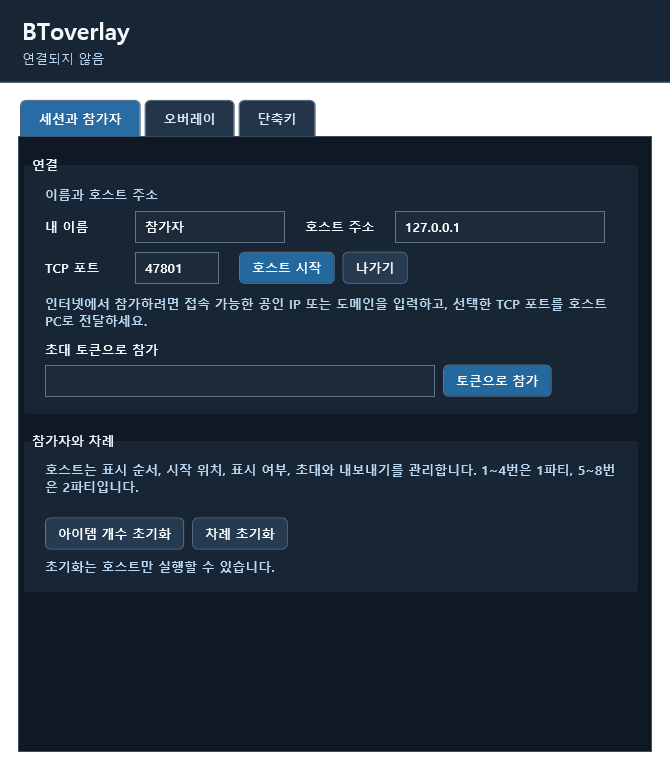
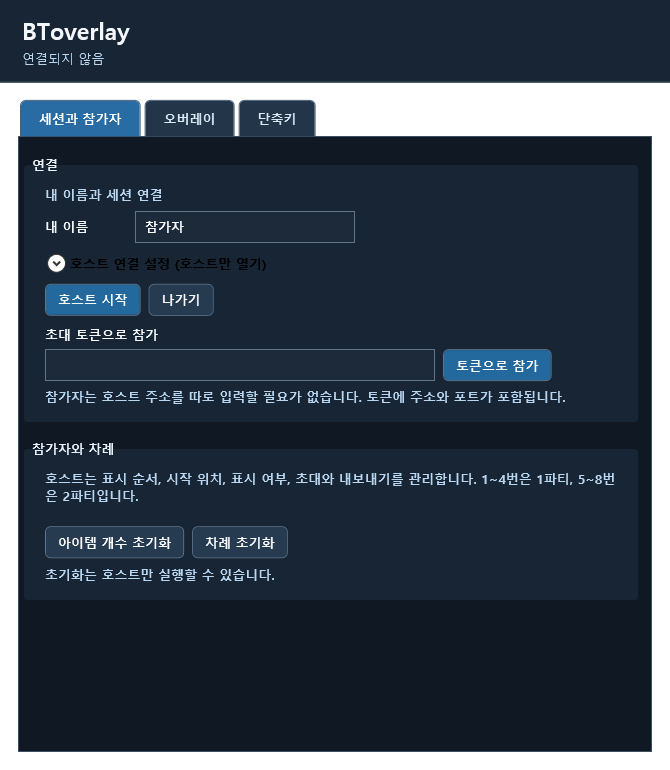
v0.3.0: 초대 토큰 연결 주소 및 문서 보안 안내

diff --git a/MainWindow.xaml b/MainWindow.xaml
@@ -139,26 +139,36 @@
           <StackPanel>
             <GroupBox Header="연결">
               <StackPanel>
-                <TextBlock Text="이름과 호스트 주소" Foreground="#B9D6F0" Margin="0,0,0,8"/>
+                <TextBlock Text="내 이름과 세션 연결" Foreground="#B9D6F0" Margin="0,0,0,8"/>
                 <WrapPanel Margin="0,0,0,9">
                   <TextBlock Text="내 이름" Width="90" VerticalAlignment="Center"/>
-                  <TextBox x:Name="NameBox" Width="150" AutomationProperties.Name="내 이름" Margin="0,0,20,0"/>
-                  <TextBlock Text="호스트 주소" Width="90" VerticalAlignment="Center"/>
-                  <TextBox x:Name="AddressBox" Width="210" AutomationProperties.Name="호스트 주소"/>
+                  <TextBox x:Name="NameBox" Width="220" AutomationProperties.Name="내 이름"/>
                 </WrapPanel>
-                <WrapPanel Margin="0,0,0,9">
-                  <TextBlock Text="TCP 포트" Width="90" VerticalAlignment="Center"/>
-                  <TextBox x:Name="PortBox" Width="84" AutomationProperties.Name="TCP 포트" Margin="0,0,20,0"/>
+                <Expander x:Name="HostConfigExpander" Header="호스트 연결 설정 (호스트만 열기)" IsExpanded="False" Margin="0,0,0,9">
+                  <StackPanel Margin="8,8,8,4">
+                    <WrapPanel Margin="0,0,0,8">
+                      <TextBlock Text="초대 주소" Width="90" VerticalAlignment="Center"/>
+                      <TextBox x:Name="AddressBox" Width="210" AutomationProperties.Name="초대 주소" ToolTip="게스트가 연결할 공인 IP 또는 도메인"/>
+                    </WrapPanel>
+                    <WrapPanel>
+                      <TextBlock Text="TCP 포트" Width="90" VerticalAlignment="Center"/>
+                      <TextBox x:Name="PortBox" Width="84" AutomationProperties.Name="TCP 포트"/>
+                    </WrapPanel>
+                    <TextBlock Text="인터넷 접속용 공인 IP 또는 도메인을 입력하세요. 선택한 포트를 공유기에서 이 PC로 전달하고 방화벽에서 허용해야 합니다. 주소는 초대 토큰에 포함됩니다."
+                               Foreground="#B9D6F0" TextWrapping="Wrap" Margin="0,8,0,2"/>
+                  </StackPanel>
+                </Expander>
+                <WrapPanel Margin="0,0,0,10">
                   <Button Content="호스트 시작" Click="HostClick" Background="#24699E" Margin="0,0,8,0"/>
                   <Button Content="나가기" Click="LeaveClick"/>
                 </WrapPanel>
-                <TextBlock Text="인터넷에서 참가하려면 접속 가능한 공인 IP 또는 도메인을 입력하고, 선택한 TCP 포트를 호스트 PC로 전달하세요."
-                           Foreground="#B9D6F0" TextWrapping="Wrap" Margin="0,2,0,12"/>
                 <TextBlock Text="초대 토큰으로 참가" FontWeight="SemiBold" Margin="0,0,0,6"/>
                 <WrapPanel>
                   <TextBox x:Name="TokenBox" Width="390" AutomationProperties.Name="초대 토큰" ToolTip="초대 토큰을 붙여 넣으세요" Margin="0,0,8,0"/>
                   <Button Content="토큰으로 참가" Click="JoinClick" Background="#24699E"/>
                 </WrapPanel>
+                <TextBlock Text="참가자는 호스트 주소를 따로 입력할 필요가 없습니다. 토큰에 주소와 포트가 포함됩니다."
+                           Foreground="#B9D6F0" TextWrapping="Wrap" Margin="0,7,0,0"/>
               </StackPanel>
             </GroupBox>
             <GroupBox Header="참가자와 차례">

diff --git a/MainWindow.xaml.cs b/MainWindow.xaml.cs
@@ -43,10 +43,15 @@ public partial class MainWindow : Window
         Closing += (_, _) => { _settings.Save(); _hotkeys?.Dispose(); _ = _session?.DisposeAsync(); _overlay?.Close(); };
     }
     void Status(string text) { StatusText.Text = text; }
-    void SaveBasic()
+    void SaveName()
     {
         _settings.Name = NameBox.Text.Trim();
         if (_settings.Name.Length is < 1 or > 24) throw new InvalidOperationException("이름은 1~24자로 입력하세요.");
+        _settings.Save();
+    }
+    void SaveBasic()
+    {
+        SaveName();
         _settings.HostAddress = AddressBox.Text.Trim();
         if (_settings.HostAddress.Length is < 1 or > 255) throw new InvalidOperationException("호스트 IP 주소 또는 도메인을 입력하세요.");
         if (!int.TryParse(PortBox.Text, out var port) || port is < 1 or > 65535) throw new InvalidOperationException("포트는 1~65535 사이여야 합니다.");
@@ -63,6 +68,7 @@ public partial class MainWindow : Window
             _session.ApproveJoin = (slot, name) => Task.FromResult(MessageBox.Show(this,
                 $"{name}님이 참가자 {slot + 1}번으로 참가하려고 합니다. 허용할까요?", "참가 요청", MessageBoxButton.YesNo, MessageBoxImage.Question) == MessageBoxResult.Yes);
             _session.Notice += Status; _session.Changed += RenderPlayers;
+            HostConfigExpander.IsExpanded = false;
             Status($"TCP {_settings.Port} 포트에서 호스트 중입니다. 참가자별 초대 토큰을 만드세요.");
             RenderPlayers(); _board.Refresh();
         }
@@ -72,7 +78,7 @@ public partial class MainWindow : Window
     {
         try
         {
-            SaveBasic();
+            SaveName();
             if (_session is not null) await _session.DisposeAsync();
             Status("연결 중입니다. 호스트의 승인을 기다리는 중...");
             _session = await Session.JoinAsync(_board, _settings, TokenBox.Text);

diff --git a/Session.cs b/Session.cs
@@ -83,7 +83,9 @@ public sealed class Session : IAsyncDisposable
         try
         {
             invite = JsonSerializer.Deserialize<Invite>(Encoding.UTF8.GetString(Convert.FromBase64String(token.Trim())))!;
-            if (invite is null || invite.Slot is < 1 or > 7 || invite.Port is < 1 or > 65535 || invite.Address.Length > 255) throw new FormatException();
+            if (invite is null || invite.Slot is < 1 or > 7 || invite.Port is < 1 or > 65535 ||
+                string.IsNullOrWhiteSpace(invite.Address) || invite.Address.Length > 255 ||
+                Uri.CheckHostName(invite.Address) == UriHostNameType.Unknown) throw new FormatException();
             secret = Convert.FromBase64String(invite.Secret);
             if (secret.Length != 32 || invite.CertificateHash.Length != 64 || !invite.CertificateHash.All(Uri.IsHexDigit)) throw new FormatException();
         }

diff --git a/Checks/Program.cs b/Checks/Program.cs
@@ -119,7 +119,7 @@ try
     var probe = new TcpListener(IPAddress.Loopback, 0);
     probe.Start(); var port = ((IPEndPoint)probe.LocalEndpoint).Port; probe.Stop();
     var hs = new UserSettings { Name = "Host", HostAddress = "127.0.0.1", Port = port, MaxItems = 3 };
-    var gs = new UserSettings { Name = "Guest", MaxItems = 5 };
+    var gs = new UserSettings { Name = "Guest", HostAddress = "", MaxItems = 5 };
     var hb = new Board(); var gb = new Board();
     host = await dispatcher.InvokeAsync(() => Session.HostAsync(hb, hs)).Task.Unwrap();
     host.ApproveJoin = (_, _) => Task.FromResult(true);

diff --git a/README.md b/README.md
@@ -2,6 +2,8 @@
 
 8인 그룹의 아이템 잔여 개수와 사용 차례를 함께 보는 Windows 오버레이입니다. 호스트 1명과 참가자 최대 7명이 직접 연결합니다. 세션과 설정은 각 사용자에게 별도로 관리됩니다.
 
+현재 버전: **v0.3.0**
+
 ## 화면 미리보기
 
 오버레이는 두 가지 표시 방식을 지원합니다. 스타일 1은 두 파티를 나란히 표시하고, 스타일 2는 현재 차례 플레이어를 크게 보여 주면서 전체 인원 상태를 한눈에 확인할 수 있습니다. 호스트가 정한 순서가 모든 참가자에게 동일하게 표시됩니다.
@@ -58,9 +60,9 @@ dotnet run --project Checks/BToverlay.Checks.csproj
 
 ## 세션 만들기
 
-1. 호스트가 참가자에게 보일 공인 IP 또는 도메인과 TCP 포트를 입력하고 **호스트 시작**을 누릅니다. 인터넷에서 사용하려면 공유기에서 해당 포트를 호스트 PC로 전달하고 방화벽에서 허용해야 합니다.
+1. 호스트는 **호스트 연결 설정**을 열어 게스트가 연결할 공인 IP 또는 도메인과 TCP 포트를 입력하고 **호스트 시작**을 누릅니다. 인터넷에서 사용하려면 공유기에서 해당 포트를 호스트 PC로 전달하고 방화벽에서 허용해야 합니다. 호스트 시작 후 주소 입력란은 접힙니다.
 2. 호스트가 참가자 2~8번 자리마다 **초대 복사**를 눌러 각자에게 토큰을 개인적으로 보냅니다. 토큰은 해당 자리에서 한 번만 사용할 수 있습니다. 같은 자리의 새 토큰을 만들면 기존 토큰은 무효가 됩니다.
-3. 참가자가 토큰을 붙여 넣고 **토큰으로 참가**를 누르면 호스트에게 승인 요청이 뜹니다. 호스트가 거절하면 해당 토큰은 무효가 됩니다.
+3. 참가자는 자신의 이름과 토큰만 입력하고 **토큰으로 참가**를 누릅니다. 호스트 주소와 포트는 토큰에서 읽으므로 직접 입력할 필요가 없습니다. 호스트에게 승인 요청이 뜨며, 호스트가 거절하면 해당 토큰은 무효가 됩니다.
 4. 호스트는 표시 순서와 시작 위치를 정하고, 참가자를 오버레이에서 표시하거나 제외하고, 내보낼 수 있습니다. 내보낸 참가자가 다시 들어오려면 새 토큰과 호스트 승인이 필요합니다.
 
 ## 오버레이와 단축키
@@ -83,7 +85,9 @@ dotnet run --project Checks/BToverlay.Checks.csproj
 
 ## 연결과 보안
 
-참가자는 호스트에게 TLS로 직접 연결합니다. 초대 토큰에는 임의의 256비트 비밀값, 참가자 자리, 호스트의 임시 인증서 해시가 들어 있습니다. 참가자는 인증서가 토큰의 해시와 일치하는지 확인하고 토큰의 비밀값을 증명한 뒤 호스트 승인을 받습니다. 각 참가자는 자신의 자리 개수만 보낼 수 있으며 호스트는 0~10의 정수만 받습니다. 호스트가 세션의 상태를 참가자들에게 전달합니다. 다른 호스트와 토큰으로 시작한 세션은 서로 독립적입니다.
+참가자는 호스트에게 TLS로 직접 연결합니다. **호스트 IP 주소는 참가자용 앱 화면에 표시되지 않습니다.** 다만 직접 연결이므로 네트워크 트래픽을 분석하면 호스트 IP를 알아낼 수 있습니다. 초대 토큰에는 호스트 주소와 포트, 임의의 256비트 비밀값, 참가자 자리, 호스트의 임시 인증서 해시가 Base64 인코딩되어 있습니다. Base64는 암호화가 아니므로 토큰을 분석해도 호스트 주소를 확인할 수 있습니다. 참가자는 인증서가 토큰의 해시와 일치하는지 확인하고 토큰의 비밀값을 증명한 뒤 호스트 승인을 받습니다. 각 참가자는 자신의 자리 개수만 보낼 수 있으며 호스트는 0~10의 정수만 받습니다. 호스트가 세션의 상태를 참가자들에게 전달합니다. 다른 호스트와 토큰으로 시작한 세션은 서로 독립적입니다.
+
+직접 연결이므로 호스트와 게스트는 네트워크 연결 과정에서 서로의 IP 주소를 알 수 있습니다. 호스트 앱은 게스트 IP를 연결 시도 제한을 위해 메모리에 보관하지만 화면에 표시하거나 디스크에 저장하지 않습니다.
 
 앱은 참가 승인에 필요한 이름과 표시 순서·차례·초기화 같은 제어 정보도 전송합니다. 아이템 이미지, 게임 파일, 게임 메모리는 전송하거나 읽지 않습니다. 정상 참가자가 실제 아이템 사용과 다른 개수를 입력하는 것은 앱이 검증할 수 없습니다. 초대 토큰은 비공개로 전달하고 사용이 끝나면 세션을 닫으세요.
 
